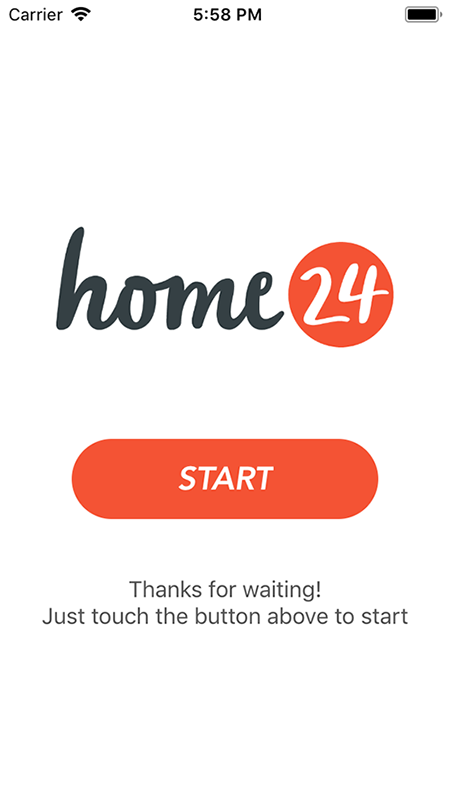
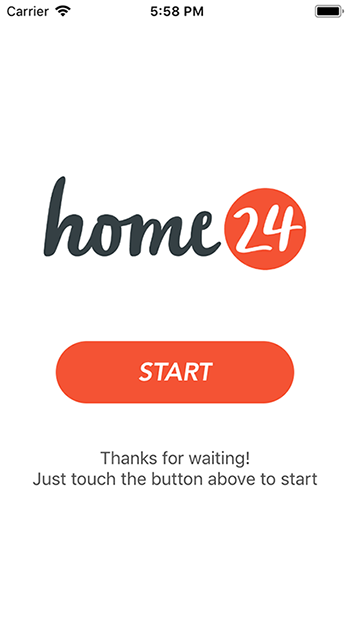
Final?

diff --git a/README.md b/README.md
@@ -26,10 +26,10 @@ Checkout a complete list of the dependent libraries below:
 
 ## Screenshots
 
-![ScreenShot 1](ScreenShots/ScreenShot-1.png =350x)
-![ScreenShot 2](ScreenShots/ScreenShot-2.png =350x)
-![ScreenShot 3](ScreenShots/ScreenShot-3.png =350x)
-![ScreenShot 4](ScreenShots/ScreenShot-4.png =350x)
+![ScreenShot 1](ScreenShots/ScreenShot-1.png)
+![ScreenShot 2](ScreenShots/ScreenShot-2.png)
+![ScreenShot 3](ScreenShots/ScreenShot-3.png)
+![ScreenShot 4](ScreenShots/ScreenShot-4.png)
 
 ## Wireframe
 
